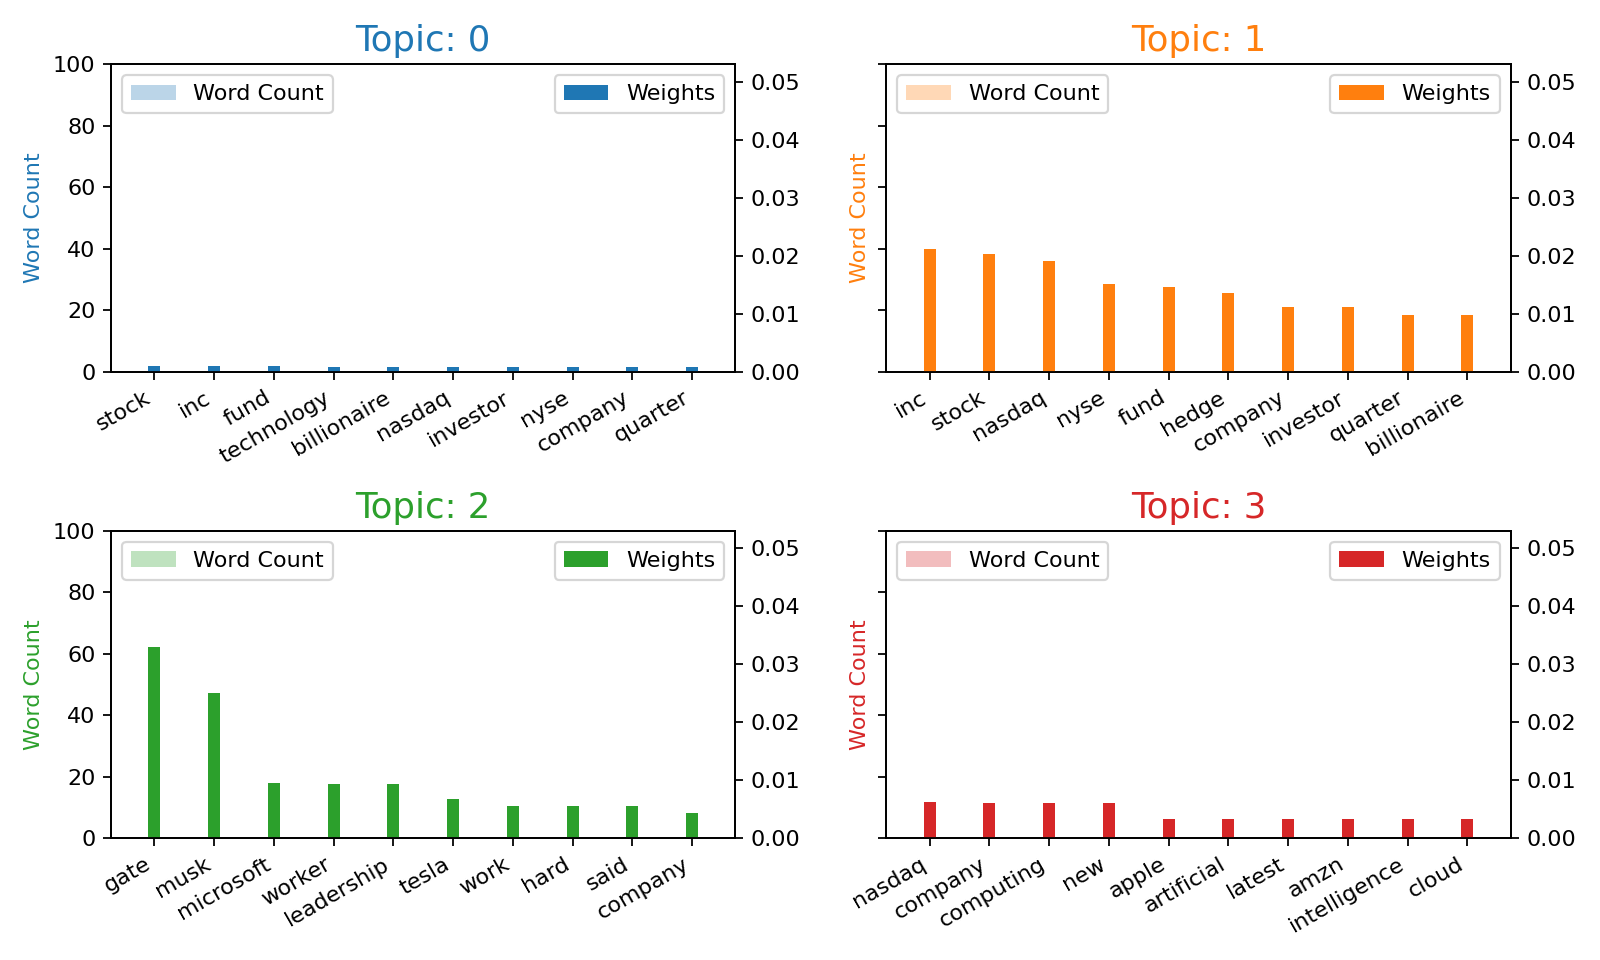
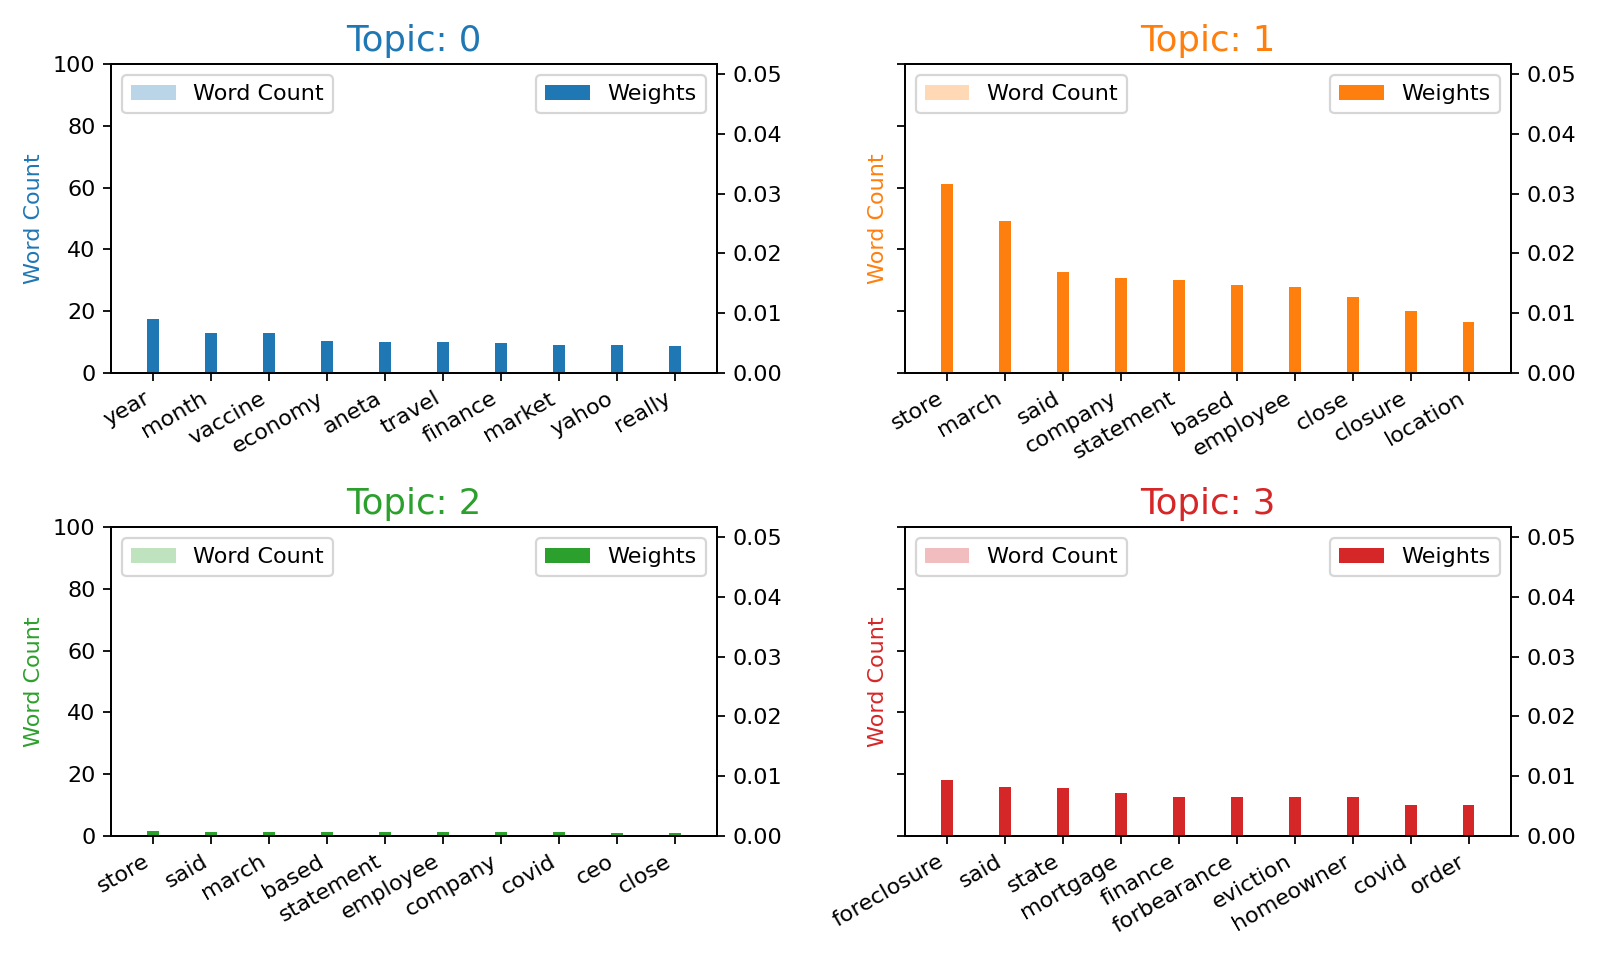
final code change

diff --git a/src/search/scrape_documents.py b/src/search/scrape_documents.py
@@ -1,18 +1,16 @@
+import pickle
 import time
 
-from selenium import webdriver
 from selenium.webdriver.chrome.options import Options
 from selenium.webdriver.chrome.service import Service as ChromeService
-from selenium.webdriver.common.by import By
-from selenium.webdriver.support import expected_conditions as EC
-from selenium.webdriver.support.ui import Select
-from selenium.webdriver.support.wait import WebDriverWait
 from webdriver_manager.chrome import ChromeDriverManager
-
+from selenium import webdriver
+from selenium.webdriver.common.by import By
+from selenium.webdriver.support.ui import WebDriverWait
+from selenium.webdriver.support import expected_conditions as EC
 
 from bs4 import BeautifulSoup
 import requests
-
 
 import sys
 import os
@@ -21,6 +19,8 @@ import os
 # where the this file is present.
 current = os.path.dirname(os.path.realpath(__file__))
 parent = os.path.dirname(current)
+# find parent directory of the parent directory.
+parent = os.path.dirname(parent)
 sys.path.append(parent)
 
 import src.utils.database_utils as db
@@ -49,120 +49,72 @@ def initBrowser():
 #     'https://finance.yahoo.com/news/iphone-assembler-hon-hai-dives-010601477.html',
 #     'https://finance.yahoo.com/m/05189731-ff16-33e1-b077-dfead8ad1cb9/paypal-s-new-boss.html',
 # ]
-def getDocumentsUrls(keyword, n):
-    """
-    :param string keyword: keyword to search
-    :param int n: number of docs to return
-
-    """
-
+def getDocumentsUrls(keyword, n, numOfRetries=3):
     url = "https://finance.yahoo.com/"
-    cur = 0
+    driver = initBrowser()  # Assuming initBrowser() is defined elsewhere
 
-    while cur < numOfRetries:
+    for _ in range(numOfRetries):
         try:
-            driver = initBrowser()
-        except:
-            print("There was an issue initializing browser window")
-            continue
-
-        # Allow adblock to be installed
-        print("Installing adblock")
-        driver.get("https://www.google.com")
-        time.sleep(5)
-        print("Opening yahoo finance")
-        driver.get(url)
-        try:
-            WebDriverWait(driver, 5).until(
-                EC.presence_of_element_located((By.ID, "header-search-form"))
-            )
+            driver.get(url)
+            WebDriverWait(driver, 10).until(EC.presence_of_element_located((By.ID, "header-search-form")))
             break
-        except:
-            cur += 1
-            print("Could not load " + url + ", retrying")
-            driver.close()
-
-    if cur == numOfRetries:
-        print("Could not load " + url + ", exiting")
+        except Exception as e:
+            print(f"Attempt to load {url} failed: {e}")
+        else:
+            print(f"Loaded {url} successfully.")
+            break
+    else:  # This block executes if the loop completes without breaking
+        print(f"Could not load {url} after {numOfRetries} retries, exiting.")
         driver.quit()
         return []
 
+    # Search for the keyword
     try:
+        searchBar = driver.find_element(By.XPATH, "//form[contains(@action, '/quote')]")
+        searchBarInput = searchBar.find_element(By.TAG_NAME, "input")
+        searchBarInput.send_keys(keyword)
+        searchBarButton = searchBar.find_element(By.ID, "header-desktop-search-button")
+        searchBarButton.click()
+
         WebDriverWait(driver, 10).until(
-            EC.presence_of_element_located((By.ID, "header-search-form"))
+            EC.presence_of_element_located((By.XPATH, "//div[contains(@id, 'mrt-node-quoteNewsStream')]"))
         )
-    except:
-        print("Could not load yahoo finace")
+    except Exception as e:
+        print(f"Search failed: {e}")
         driver.quit()
         return []
 
-    searchBar = driver.find_element(
-        By.XPATH, "//form[contains(@action, '/quote')]")
-    searchBarInput = searchBar.find_element(By.TAG_NAME, "input")
-    searchBarInput.send_keys(keyword)
-    time.sleep(2)
-    searchBarButton = searchBar.find_element(
-        By.ID, "header-desktop-search-button")
-    searchBarButton.click()
-
-    try:
-        WebDriverWait(driver, 10).until(
-            EC.presence_of_element_located(
-                (By.XPATH, "//div[contains(@id, 'mrt-node-quoteNewsStream')]"))
-        )
-    except:
-        print("Could not load results")
-        driver.quit()
-        return []
-
-    resultsDiv = driver.find_element(
-        By.XPATH, "//div[contains(@id, 'mrt-node-quoteNewsStream')]")
+    # Fetch results
+    resultsDiv = driver.find_element(By.XPATH, "//div[contains(@id, 'mrt-node-quoteNewsStream')]")
     results = resultsDiv.find_elements(By.TAG_NAME, "li")
-    filteredResults = []
-    for result in results:
-        try:
-            result.find_element(By.XPATH, ".//a[text()='Ad']")
-        except:
-            filteredResults.append(result)
 
-    prev = 0
+    filteredResults = [result for result in results if not result.find_elements(By.XPATH, ".//a[text()='Ad']")]
+
+    # Scroll and fetch more results if necessary
     while len(filteredResults) < n:
-        print("{} urls found".format(len(filteredResults)))
-        if (prev == len(filteredResults)):
-            print("Maximum number of documents found related to " + keyword)
-            break
-        prev = len(filteredResults)
         driver.execute_script("arguments[0].scrollIntoView();", results[-1])
-        time.sleep(1)
-
+        time.sleep(1)  # Necessary for dynamic loading of content
         results = resultsDiv.find_elements(By.TAG_NAME, "li")
-        filteredResults = []
-        for result in results:
-            try:
-                result.find_element(By.XPATH, ".//a[text()='Ad']")
-            except:
-                filteredResults.append(result)
+        filteredResults = [result for result in results if not result.find_elements(By.XPATH, ".//a[text()='Ad']")]
 
-    print("{} urls found".format(len(filteredResults)))
+        if len(filteredResults) == prev_len:  # No new results found
+            print("No more documents found related to the keyword.")
+            break
+        prev_len = len(filteredResults)
 
+    # Extract URLs and descriptions
     res = []
     for result in filteredResults[:n]:
-
         try:
             a = result.find_element(By.TAG_NAME, "a")
             p = result.find_element(By.TAG_NAME, "p")
-            description = p.text
-        except:
-            description = ""
-            print('Could not locate description')
-            continue
-        res.append({
-            'title': a.text,
-            'url': a.get_attribute('href'),
-            'description': description,
-        })
-
-    print(f"Results: {res}")
+            res.append({
+                'title': a.text,
+                'url': a.get_attribute('href'),
+                'description': p.text,
+            })
+        except Exception as e:
+            print(f"Error retrieving information from a result: {e}")
 
     driver.quit()
     return {'total': len(res), 'results': res}
@@ -170,7 +122,7 @@ def getDocumentsUrls(keyword, n):
 
 def processDocumentUrl(url):
     print("Processing " + url)
-    r = requests.get(url)
+    r = requests.get(url, headers={'User-Agent': 'Custom'})
     if r.status_code != 200:
         print('Cannot open url')
         return
@@ -206,6 +158,7 @@ def processDocumentUrl(url):
 
     except:
         return
+
 
 # Given a list of urls, process the urls and return a list of documents
 # [
@@ -288,7 +241,6 @@ def mineNewsUrls():
             "return document.getElementById('slingstoneStream-0-Stream').scrollHeight")
 
         if new_height == last_height:
-
             break
 
         last_height = new_height
@@ -340,4 +292,4 @@ def mineData():
 
 # Example Usage
 if __name__ == "__main__":
-    getDocumentsUrls('apple', 30)
+    mineData()

diff --git a/src/dashboard/data_api.py b/src/dashboard/data_api.py
@@ -6,9 +6,9 @@ from src.search.scrape_documents import getDocumentsUrls, processDocumentUrl
 import src.models.sentiment_model as sentiment_model
 import src.models.summarization_model as summarization_model
 import src.models.topic_model as tm
-
-
+from  src.utils import database_utils as db
 MOCK_DATA = False
+client = db.create_client()
 
 MOCK_DOCUMENTS = {
     'total': 10,
@@ -47,39 +47,49 @@ MOCK_DOCUMENTS = {
 
 
 def getDocuments(query):
-    if not MOCK_DATA:
-        return getDocumentsUrls(query, 10)
-    # in mock data, still simulate the waiting time
-    time.sleep(1)
-    return MOCK_DOCUMENTS
+    query = {
+        "multi_match": {
+            "query": query,
+            "fields": ["body", "title", "keywords"]
+        }
+    }
+    response = db.search_documents(client, "documents", query)
+    response_data = response['hits']['hits']
 
+    # Extracting the desired fields
+    extracted_data = []
+    for item in response_data:
+        extracted_doc = {
+            'url': item['_source']['base_url'],
+            'title': item['_source']['title'],
+            'body': item['_source']['body']
+        }
+        extracted_data.append(extracted_doc)
+    return {'total': len(extracted_data), 'results': extracted_data}
 
 summarizer = summarization_model.init_model()
 
 
 def getSummarization(result):
-    if result["scraped"] is None:
-        return 'Failed to scrape'
     # return 'summary'
     summary = summarization_model.inference(
-        summarizer, result["scraped"]['body'])
-    print(f'summary: {summary}')
+        summarizer, result)
+    # print(f'summary: {summary}')
     return summary
 
 
 def getTopics(documents):
     bodys = []
     for i in documents['results']:
-        url = i['url']
-        body = processDocumentUrl(url)['body']
+        body = i['body']
         if body is []:
             continue
         bodys.append(body)
 
     model, corpus, texts = tm.fit_topic_model(bodys)
     tm.plot_word_cloud_word_weight_per_topic(model)
-    # df, topic_set = tm.get_topic_word_weight(model, bodys)
-    # tm.plot_topic_word_wordcount_weight(df, topic_set)
+    df, topic_set = tm.get_topic_word_weight(model, bodys)
+    tm.plot_topic_word_wordcount_weight(df, topic_set)
     # docs = []
     # for result in documents['results']:
     #     if result["scraped"] is None:

diff --git a/src/dashboard/dashboard.py b/src/dashboard/dashboard.py
@@ -80,9 +80,9 @@ def update_results(n_clicks, n_clicks2, query, query2):
     elif ctx.triggered_id == 'search-btn2':
         query = query2
 
-    print(f'getDocuments {query}')
+    # print(f'getDocuments {query}')
     documents = data_api.getDocuments(query)
-    print(f'documents {documents}')
+    # print(f'documents {documents}')
 
     results = []
 
@@ -90,16 +90,15 @@ def update_results(n_clicks, n_clicks2, query, query2):
     first_scraped = None
     for result in documents['results']:
         if first:
-            print(f'scraping URL: {result["url"]}')
-            result['scraped'] = processDocumentUrl(result['url'])
-            first_scraped = result['scraped']
-            print(f'scraped doc: {result["scraped"]}')
-            result['summary'] = data_api.getSummarization(result)
+            # print(f'scraping URL: {result["url"]}')
+            first_scraped = result['body']
+            # print(f'scraped doc: {result["scraped"]}')
+            result['summary'] = data_api.getSummarization(result['body'])
             if data_api.MOCK_DATA:
                 first = False
         else:
             # during testing, avoid sending too may requests
-            result['scraped'] = first_scraped
+            result['body'] = first_scraped
             result['summary'] = 'Skipped in testing mode'
 
     results.append(html.H2('Documents Found'))

diff --git a/src/utils/database_utils.py b/src/utils/database_utils.py
@@ -80,22 +80,12 @@ def delete_index(client, index_name):
 if __name__ == "__main__":
     client = create_client()
     # Create an index
-    print(create_index(client, "my_index"))
-
-    # Index a document
-    print(index_document(client, "my_index", "my_document_id", {"foo": "foo", "bar": "bar"}))
-
-    # Get a document
-    print(get_document(client, "my_index", "my_document_id"))
-
-    # Search documents
-    print(search_documents(client, "my_index", {"match": {"foo": "foo"}}))
-
-    # Update a document
-    print(update_document(client, "my_index", "my_document_id", {"new_field": "new_value"}))
-
-    # Delete a document
-    print(delete_document(client, "my_index", "my_document_id"))
-
-    # Delete an index
-    print(delete_index(client, "my_index"))
+    # search document that body, title or keywords contains "bank"
+    query = {
+        "multi_match": {
+            "query": "bank",
+            "fields": ["body", "title", "keywords"]
+        }
+    }
+    docs = search_documents(client, "documents", query)
+    print(docs)
